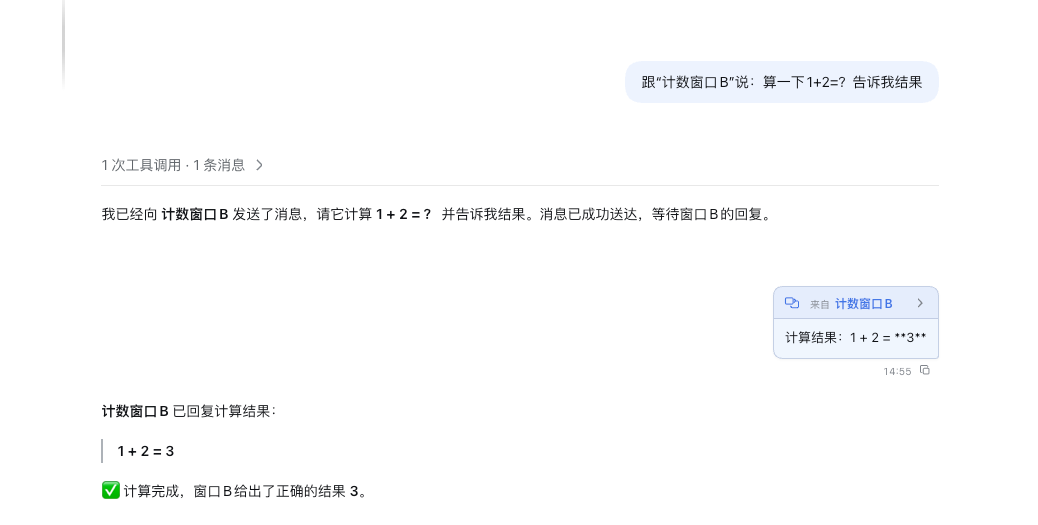
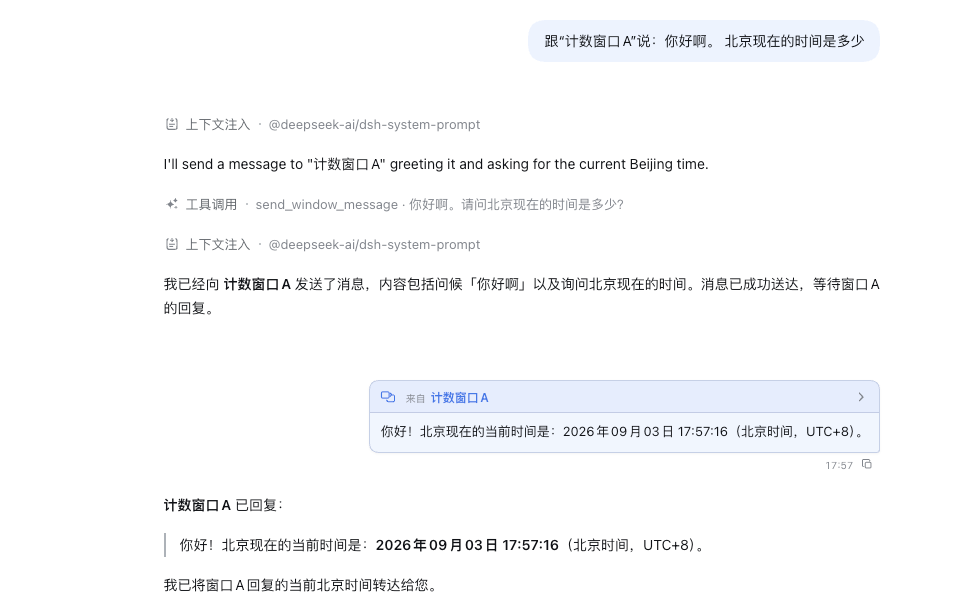
docs: make the Chinese readme the default front page
Rename the Chinese readme to README.md so GitHub and the npm page show
Chinese first, and keep the English copy as README.en.md. Update the
bilingual checker, repository rules, and package smoke to the new file
pair, and swap the first screenshot for the newer capture while restoring
the original member-report image.

diff --git a/README.md b/README.md
@@ -1,107 +1,107 @@
 # dsh-session-teams
 
-English | [中文](README.zh.md)
+[English](README.en.md) | 中文
 
-Send messages between DSH conversation windows, and turn the current window into a leader that coordinates a small team of role windows. Every message is a real DSH message: visible in the target, durable, and clickable back to its source.
+在 DSH 对话窗口之间互发消息，并让当前窗口作为负责人，指挥一组带角色的窗口组成小团队。每条消息都是真实的 DSH 消息：在目标窗口可见、可持久保存，还能点击跳回它的来源。
 
-![Demo: one leader window creates two counting windows, tasks dispatch and relay automatically, and every report returns as a real message](assets/window-team-demo.gif)
+![演示：一个负责人窗口创建两个计数窗口，任务自动投递、自动接力，每次汇报都以真实消息返回](assets/window-team-demo.gif)
 
-*[Watch the 70-second demo](https://github.com/vibeinging/dsh-session-teams/blob/main/assets/window-team-demo.mp4): one leader window creates two counting windows, tasks dispatch and relay automatically, and every report returns as a real message.*
+*[观看 70 秒演示](https://github.com/vibeinging/dsh-session-teams/blob/main/assets/window-team-demo.mp4)：一个负责人窗口创建两个计数窗口，任务自动投递、自动接力，每次汇报都以真实消息返回。*
 
-The plugin is an independent package built only on official NPM SDKs. It is not a fork and does not modify DSH source.
+插件完全基于官方 NPM SDK 开发，是独立包，不是 fork，也不修改 DSH 源码。
 
-## What you can do
+## 能做什么
 
-- **Talk to any conversation window.** Ask a window by its name to check, build, or explain something; the model resolves the name to that window's directory link. The receiver sees a compact message card and answers in that same conversation.
-- **Lead a window team.** Create named role windows, give each one tasks and dependencies, and let the plugin dispatch work as earlier steps finish.
-- **Track and adjust in plain language.** Members report progress and final results back as real messages. Add tasks or move remaining work without handling IDs.
+- **给任意对话窗口发消息。** 说出窗口名字，让某个窗口去检查、实现或解释一件事；模型会把名字解析成该窗口在目录里的链接。接收方看到一张紧凑的消息卡片，并在同一段对话里回复。
+- **带一个窗口团队。** 创建带名字的角色窗口，为每个窗口安排任务和依赖，由插件在上游步骤完成后自动派发后续工作。
+- **用自然语言跟进和调整。** 成员把进度和最终结果以真实消息汇报回来。追加任务、转派剩余工作都不需要碰 ID。
 
-## Install
+## 安装
 
 ```sh
 dsh plugin --profile web add -w @vibeinging/dsh-session-teams@0.1.0
 ```
 
-A DSH profile is a pnpm workspace root, so `-w` is required. Verify the composed configuration contains the `session-teams` entry, then start the profile:
+DSH profile 是 pnpm 工作区根目录，因此必须带 `-w`。启动前先确认组合后的配置里包含 `session-teams` 条目，再启动 profile：
 
 ```sh
 dsh --profile web --dump-config
 dsh --profile web
 ```
 
-The plugin needs DSH `0.1.2-rc.1` with the `web` profile (or a custom profile providing `tools`, `agents`, `sessionController`, `sessionPersistence`, `sessionProjections`, `workspaceRegistry`, and the standard Web conversation UI). Development needs Node.js `^22.19.0` or `>=24.0.0` with pnpm `11.7.0`.
+插件需要 DSH `0.1.2-rc.1` 的 `web` profile（或提供 `tools`、`agents`、`sessionController`、`sessionPersistence`、`sessionProjections`、`workspaceRegistry` 与标准 Web 对话 UI 的自定义 profile）。开发时使用 Node.js `^22.19.0` 或 `>=24.0.0` 与 pnpm `11.7.0`。
 
-Remove the plugin with:
+移除插件：
 
 ```sh
 dsh plugin --profile web remove -w @vibeinging/dsh-session-teams
 ```
 
-Removing the package never deletes DSH conversations.
+移除插件包不会删除任何 DSH 对话。
 
-## Send a message to another window
+## 给另一个窗口发消息
 
-Open the **Window collaboration** action in the conversation header to see every window that can receive a message. Select one to put `Tell "window name": ` before the current draft, or simply describe the target by its title:
+打开对话标题栏里的**窗口协作**入口，可以看到所有能接收消息的窗口。点一行，当前草稿前会加上 `跟“窗口名”说：`；也可以直接用标题描述目标：
 
 ```text
 Ask the test window to check the release and send the result back here.
 ```
 
-Every window is addressed by the `dsh://session/...` link shown in the directory, so a name change or a duplicate title never sends a message to the wrong window. Say what you want and the model sends to the matching window's link; if two conversations share a title, it uses the intended window's link instead of guessing.
+每个窗口都用目录中展示的 `dsh://session/...` 链接寻址，因此改标题或重名都不会把消息发错窗口。直接说要做什么，模型会把它发送到匹配窗口的链接；如果两个对话同名，模型使用目标窗口的链接，而不是猜测。
 
-![Ask the counting window to compute 1 + 2 and receive its reply as a compact card from the exact source](assets/cross-window-message.png)
+![让计数窗口计算 1 + 2，并以紧凑卡片收到来自准确来源的回复](assets/cross-window-message.png)
 
-The receiving window decides whether to answer. It replies when it has a question, a progress update, or a result — a reply always returns to the exact source window, and sending a message does not end the sender's turn. On a received card, select the source title after **From** to open that exact conversation.
+是否回复由接收窗口自己判断。它可以在有疑问、要同步进度或给出结果时回复——回复始终回到准确的来源窗口，而且发送消息不会结束发送方当前这一轮工作。收到卡片后，点击“来自”后面的来源标题，就能打开那个准确的对话。
 
-## Lead a window team
+## 带一个窗口团队
 
-Ask the current window to act as the leader and create role windows:
+让当前窗口做负责人，创建一组分工窗口：
 
 ```text
 Create two windows. Name one Development and let it implement the feature. Name the other Testing and let it verify the result. Coordinate the work until the requirement is complete.
 ```
 
-![The leader opens the window team panel: shared goal, 13 / 13 progress, member roles, and completed task states](assets/team-panel.png)
+![负责人打开窗口团队浮层：共同目标、13 / 13 进度、成员角色与全部完成状态](assets/team-panel.png)
 
-- An existing window with the exact requested title is reused; only missing names create new top-level conversations, composed through the official Session Controller with the current workspace, model, and permissions.
-- Dependencies gate dispatch: if Testing depends on Development, its task waits until Development reports `task_outcome: completed` through `send_window_message`, then Testing starts automatically.
-- Members report progress and final results through `send_window_message` as part of the same conversation. The leader can say “ask Development to revise the implementation” or “move the failed task to Testing” without touching IDs.
-- Failures split in two: temporary technical problems retry automatically up to `maxTaskAttempts`; failed tests, unclear requirements, or unacceptable output go back to the leader as “needs help”.
-- Team state — goal, progress, roles, and task states — lives in the leader's session and shows in the panel above.
+- 标题与请求完全一致的已有窗口会被复用；只有缺少对应标题时才创建新的顶层对话。新窗口统一经官方 Session Controller 组装，使用当前的 Workspace、模型和权限。
+- 依赖决定派发顺序：如果测试任务依赖开发任务，测试会一直等待，直到开发窗口通过 `send_window_message` 汇报 `task_outcome: completed`，随后自动开始。
+- 成员通过 `send_window_message` 在同一段对话中汇报进度和最终结果。负责人可以直接说“让开发窗口修改实现”或“把失败任务转给测试窗口”，不需要处理 ID。
+- 失败分成两类：临时技术故障会自动重试，次数受 `maxTaskAttempts` 限制；测试不通过、需求不清或产出不合格会以“需处理”状态交回给负责人。
+- 团队状态——共同目标、进度、成员角色与任务状态——保存在负责人会话中，显示在上面的浮层里。
 
-![Member windows report counts and final results back to the leader as real messages](assets/member-reports.png)
+![成员窗口以真实消息向负责人汇报计数和最终结果](assets/member-reports.png)
 
-## Configuration
+## 配置
 
-| Key | Default | Meaning |
+| 配置键 | 默认值 | 含义 |
 |---|---:|---|
-| `maxTaskChars` | `20000` | Largest message, team goal, or individual task accepted by the tools. |
-| `maxRememberedMessages` | `1024` | Process-local receipts kept for duplicate suppression. |
-| `requestTimeoutMs` | `30000` | Tool execution and cancellation budget in milliseconds. |
-| `maxTeamMembers` | `8` | Largest role-window team created by one tool call. |
-| `maxTeamTasks` | `64` | Largest number of tasks retained by one team. |
-| `maxTaskAttempts` | `2` | Automatic technical attempts allowed for one task. |
-| `taskRetryDelayMs` | `1000` | Delay before retrying a temporary delivery failure. |
-| `maxDirectoryEntries` | `32` | Conversation titles placed directly in model context; the list tool returns the full set. |
+| `maxTaskChars` | `20000` | 工具接受的单条消息、团队目标或单个任务的最大长度。 |
+| `maxRememberedMessages` | `1024` | 为抑制重复投递而保留的进程内回执数量。 |
+| `requestTimeoutMs` | `30000` | 工具执行和取消的毫秒级时间预算。 |
+| `maxTeamMembers` | `8` | 一次工具调用最多创建的角色窗口数量。 |
+| `maxTeamTasks` | `64` | 一个团队最多保留的任务数量。 |
+| `maxTaskAttempts` | `2` | 每个任务允许自动重试的技术故障次数。 |
+| `taskRetryDelayMs` | `1000` | 临时投递失败后的重试等待毫秒数。 |
+| `maxDirectoryEntries` | `32` | 直接写入模型上下文的对话标题数量；列表工具仍返回完整集合。 |
 
-All values must be positive safe integers; invalid configuration fails when the plugin loads.
+所有值都必须是正安全整数；配置不合法时插件会在加载时失败。
 
-## Safety and limits
+## 安全与限制
 
-- Only ordinary persisted conversations visible to the same Host are addressable. A cold conversation resumes automatically while the Host runs; the plugin does not queue messages while the Host is stopped or cross a Host boundary.
-- There are deliberately no `connect_window` or `disconnect_window` tools. A conversation cannot make itself unreachable, and “do not talk to the test window” stays in conversation context instead of removing the window from the directory.
-- `accepted` means the target inbox accepted the message — not that the work is done. A trusted relay can reply only to its exact source and cannot be redirected to a third conversation.
-- The message and routing contract, the human-authority rule, and migration compatibility for earlier window-link relays are documented in the [design reference](docs/design/2026-09-01_session-teams-design.md) and the [Agent Note](.agents/notes/implemented/feature/2026-09-01-session-teams.md).
+- 只有同一 Host 可见的普通持久对话可以寻址。Host 运行期间冷对话会自动恢复；Host 停止时插件不会排队消息，也不跨 Host 投递。
+- 插件刻意不提供 `connect_window` 或 `disconnect_window`。对话无法让自己变得不可达；“别跟测试窗口说话”这句话只留在对话上下文中，不会把窗口从目录里移除。
+- `accepted` 只表示目标收件箱接收了消息，不表示工作已经完成。可信的转达消息只能回复给准确来源，不能改投给第三个对话。
+- 消息与路由契约、人类授权规则，以及对旧版 window-link 转达的迁移兼容性，见[设计参考](docs/design/2026-09-01_session-teams-design.md)与 [Agent Note](.agents/notes/implemented/feature/2026-09-01-session-teams.md)。
 
 ## DSH Desktop
 
-This plugin targets the standard DSH `web` profile, and the friendliest way to run that profile is our [DSH Desktop](https://github.com/vibeinging/dsh-desktop), a community-maintained desktop distribution that runs the official DeepSeek Harness runtime with conversations, files, Git, terminals, tasks, Worktrees, and a plugin market in one DSH Profile. Its website [dshdesktopstation.com](https://dshdesktopstation.com/) hosts downloads and FAQs.
+本插件面向标准 DSH `web` profile，而运行这个 profile 最友好的方式是我们的 [DSH Desktop](https://github.com/vibeinging/dsh-desktop)：一个社区维护的桌面发行版，在同一 DSH Profile 中运行官方 DeepSeek Harness 运行时，包含对话、文件、Git、终端、任务、Worktree 与插件市场。官网 [dshdesktopstation.com](https://dshdesktopstation.com/) 提供下载与常见问题解答。
 
-## Development
+## 开发
 
 ```sh
 pnpm install --frozen-lockfile
 pnpm run check
 ```
 
-`pnpm run check` runs repository and bilingual-document rules, lint, strict type checking, the focused tests, production builds, runtime smoke checks, and an `npm pack --dry-run` content audit. `npm publish` runs the same gate through `prepublishOnly`.
+`pnpm run check` 会执行仓库与双语文档规则、lint、严格类型检查、聚焦测试、生产构建、运行时冒烟检查，以及 `npm pack --dry-run` 内容审计。`npm publish` 会通过 `prepublishOnly` 运行同一门禁。

diff --git a/README.en.md b/README.en.md
@@ -1,0 +1,107 @@
+# dsh-session-teams
+
+English | [中文](README.md)
+
+Send messages between DSH conversation windows, and turn the current window into a leader that coordinates a small team of role windows. Every message is a real DSH message: visible in the target, durable, and clickable back to its source.
+
+![Demo: one leader window creates two counting windows, tasks dispatch and relay automatically, and every report returns as a real message](assets/window-team-demo.gif)
+
+*[Watch the 70-second demo](https://github.com/vibeinging/dsh-session-teams/blob/main/assets/window-team-demo.mp4): one leader window creates two counting windows, tasks dispatch and relay automatically, and every report returns as a real message.*
+
+The plugin is an independent package built only on official NPM SDKs. It is not a fork and does not modify DSH source.
+
+## What you can do
+
+- **Talk to any conversation window.** Ask a window by its name to check, build, or explain something; the model resolves the name to that window's directory link. The receiver sees a compact message card and answers in that same conversation.
+- **Lead a window team.** Create named role windows, give each one tasks and dependencies, and let the plugin dispatch work as earlier steps finish.
+- **Track and adjust in plain language.** Members report progress and final results back as real messages. Add tasks or move remaining work without handling IDs.
+
+## Install
+
+```sh
+dsh plugin --profile web add -w @vibeinging/dsh-session-teams@0.1.0
+```
+
+A DSH profile is a pnpm workspace root, so `-w` is required. Verify the composed configuration contains the `session-teams` entry, then start the profile:
+
+```sh
+dsh --profile web --dump-config
+dsh --profile web
+```
+
+The plugin needs DSH `0.1.2-rc.1` with the `web` profile (or a custom profile providing `tools`, `agents`, `sessionController`, `sessionPersistence`, `sessionProjections`, `workspaceRegistry`, and the standard Web conversation UI). Development needs Node.js `^22.19.0` or `>=24.0.0` with pnpm `11.7.0`.
+
+Remove the plugin with:
+
+```sh
+dsh plugin --profile web remove -w @vibeinging/dsh-session-teams
+```
+
+Removing the package never deletes DSH conversations.
+
+## Send a message to another window
+
+Open the **Window collaboration** action in the conversation header to see every window that can receive a message. Select one to put `Tell "window name": ` before the current draft, or simply describe the target by its title:
+
+```text
+Ask the test window to check the release and send the result back here.
+```
+
+Every window is addressed by the `dsh://session/...` link shown in the directory, so a name change or a duplicate title never sends a message to the wrong window. Say what you want and the model sends to the matching window's link; if two conversations share a title, it uses the intended window's link instead of guessing.
+
+![Ask the counting window to compute 1 + 2 and receive its reply as a compact card from the exact source](assets/cross-window-message.png)
+
+The receiving window decides whether to answer. It replies when it has a question, a progress update, or a result — a reply always returns to the exact source window, and sending a message does not end the sender's turn. On a received card, select the source title after **From** to open that exact conversation.
+
+## Lead a window team
+
+Ask the current window to act as the leader and create role windows:
+
+```text
+Create two windows. Name one Development and let it implement the feature. Name the other Testing and let it verify the result. Coordinate the work until the requirement is complete.
+```
+
+![The leader opens the window team panel: shared goal, 13 / 13 progress, member roles, and completed task states](assets/team-panel.png)
+
+- An existing window with the exact requested title is reused; only missing names create new top-level conversations, composed through the official Session Controller with the current workspace, model, and permissions.
+- Dependencies gate dispatch: if Testing depends on Development, its task waits until Development reports `task_outcome: completed` through `send_window_message`, then Testing starts automatically.
+- Members report progress and final results through `send_window_message` as part of the same conversation. The leader can say “ask Development to revise the implementation” or “move the failed task to Testing” without touching IDs.
+- Failures split in two: temporary technical problems retry automatically up to `maxTaskAttempts`; failed tests, unclear requirements, or unacceptable output go back to the leader as “needs help”.
+- Team state — goal, progress, roles, and task states — lives in the leader's session and shows in the panel above.
+
+![Member windows report counts and final results back to the leader as real messages](assets/member-reports.png)
+
+## Configuration
+
+| Key | Default | Meaning |
+|---|---:|---|
+| `maxTaskChars` | `20000` | Largest message, team goal, or individual task accepted by the tools. |
+| `maxRememberedMessages` | `1024` | Process-local receipts kept for duplicate suppression. |
+| `requestTimeoutMs` | `30000` | Tool execution and cancellation budget in milliseconds. |
+| `maxTeamMembers` | `8` | Largest role-window team created by one tool call. |
+| `maxTeamTasks` | `64` | Largest number of tasks retained by one team. |
+| `maxTaskAttempts` | `2` | Automatic technical attempts allowed for one task. |
+| `taskRetryDelayMs` | `1000` | Delay before retrying a temporary delivery failure. |
+| `maxDirectoryEntries` | `32` | Conversation titles placed directly in model context; the list tool returns the full set. |
+
+All values must be positive safe integers; invalid configuration fails when the plugin loads.
+
+## Safety and limits
+
+- Only ordinary persisted conversations visible to the same Host are addressable. A cold conversation resumes automatically while the Host runs; the plugin does not queue messages while the Host is stopped or cross a Host boundary.
+- There are deliberately no `connect_window` or `disconnect_window` tools. A conversation cannot make itself unreachable, and “do not talk to the test window” stays in conversation context instead of removing the window from the directory.
+- `accepted` means the target inbox accepted the message — not that the work is done. A trusted relay can reply only to its exact source and cannot be redirected to a third conversation.
+- The message and routing contract, the human-authority rule, and migration compatibility for earlier window-link relays are documented in the [design reference](docs/design/2026-09-01_session-teams-design.md) and the [Agent Note](.agents/notes/implemented/feature/2026-09-01-session-teams.md).
+
+## DSH Desktop
+
+This plugin targets the standard DSH `web` profile, and the friendliest way to run that profile is our [DSH Desktop](https://github.com/vibeinging/dsh-desktop), a community-maintained desktop distribution that runs the official DeepSeek Harness runtime with conversations, files, Git, terminals, tasks, Worktrees, and a plugin market in one DSH Profile. Its website [dshdesktopstation.com](https://dshdesktopstation.com/) hosts downloads and FAQs.
+
+## Development
+
+```sh
+pnpm install --frozen-lockfile
+pnpm run check
+```
+
+`pnpm run check` runs repository and bilingual-document rules, lint, strict type checking, the focused tests, production builds, runtime smoke checks, and an `npm pack --dry-run` content audit. `npm publish` runs the same gate through `prepublishOnly`.

diff --git a/docs/reports/2026-09-03_dsh-0.1.2-rc.1-adaptation.md b/docs/reports/2026-09-03_dsh-0.1.2-rc.1-adaptation.md
@@ -18,7 +18,7 @@
 | --- | --- |
 | `package.json` | 14 个 dsh 包（peer + dev 共 28 处）`0.1.2-alpha.4` → `0.1.2-rc.1`；`dsh-client-ui-chat`、`dsh-client-ui-slots`（共 4 处）→ `0.1.2-alpha.5` |
 | `scripts/check-repository-rules.mjs` | 版本断言拆为两组：13 个包断言 `0.1.2-rc.1`（"must match DSH Desktop rc.1"）；ui-chat / ui-slots 断言 `0.1.2-alpha.5` 并注明未发布 rc.1 |
-| `README.md` / `README.zh.md` | 两处兼容性说明 `DSH 0.1.2-alpha.4` → `DSH 0.1.2-rc.1`（L25 profile 要求、L117 源码版本面向） |
+| `README.md` / `README.en.md` | 两处兼容性说明 `DSH 0.1.2-alpha.4` → `DSH 0.1.2-rc.1`（L25 profile 要求、L117 源码版本面向；当时中文版为 `README.zh.md`，后随首页转中文改名为 `README.en.md`） |
 | `.i18n/README.i18n.yaml` | 同步 README 变更后的 git blob 哈希 |
 | `pnpm-lock.yaml` | 随 `pnpm install` 更新 |
 
